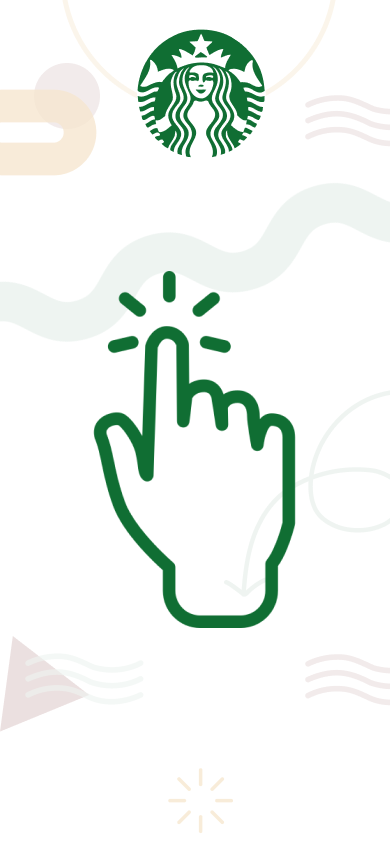
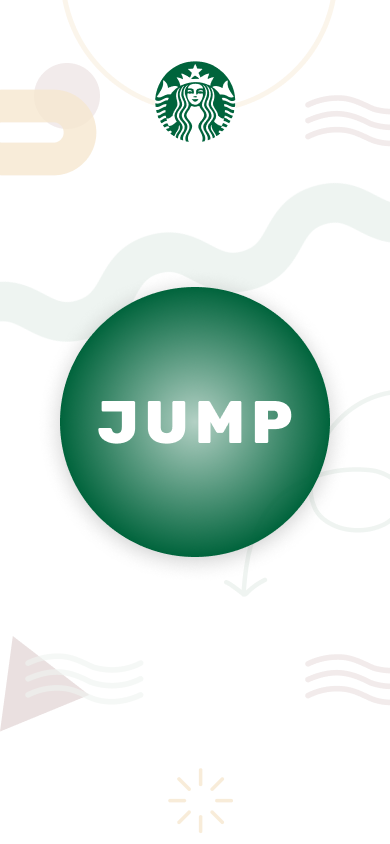
ended emit button to jup

Changed region(s): [[0.1538, 0.3081, 0.8615, 0.7701], [0.3385, 0.0308, 0.6769, 0.1848]]

diff --git a/public-display/sketch.js b/public-display/sketch.js
@@ -105,7 +105,6 @@ function start() {
 function HandleKeydown(ev) {
     if(ev.keyCode == 32){
         jump();
-        console.log(HandleKeydown)
     }
 }
 
@@ -243,13 +242,16 @@ function  GameOver() {
 You may want to use a Switch structure to listen for up, down, right and left cases.
 _____________________________________________ */
 
-socket.on('display-saludo',(message)=>{
-    console.log(message)
+
+socket.on('display-salto',(message)=>{
+    if(!jumping && message) jump();
 });
 
-socket.on('display-salto', (salta)=> {
-    console.log(salta)
-})
+socket.on('display-salto',(message)=>{
+    if(!jumping && message) jump();
+});
+
+
 
 /*___________________________________________
 

diff --git a/public-controller/sketch.js b/public-controller/sketch.js
@@ -34,13 +34,19 @@ function mostrarPantalla(numPantalla) {
 
 1) Create a function that includes the socket method to emit the directions
 _____________________________________________ */
-let message = "aaaaa"
-socket.emit("saludo",message);
 
-let salta = jump();
-var button = document.getElementById('miBoton');
-button.addEventListener('click', function(event) {
+let salta = false;
+var button = document.querySelector('.miBoton');
+console.log(button);
+button.addEventListener('mousedown', ()=> {
+  salta = false;
   socket.emit('eventoDeClick', salta);
 });
+
+button.addEventListener('mouseup', ()=> {
+  salta = true;
+  socket.emit('eventoDeClick', salta);
+});
+
 
 

diff --git a/public-controller/index.html b/public-controller/index.html
@@ -13,7 +13,7 @@
 </head>
 
 <body>
-    <button class="miBoton">Click para saltar</button>
+    
     <div class="container">
 
         <div id="pantalla1" class="pantalla activa">
@@ -21,9 +21,12 @@
             <button class="btn1" id="boton-pantalla2">PLAY</button>
         </div>
         
+
+        
         <div id="pantalla2" class="pantalla">
             <img src="./images/play.png" alt="">
             <button class="button2" id="boton-pantalla3">Ir a Pantalla 3</button>
+            <button class="miBoton">JUMP</button>
         </div>
         
         <div id="pantalla3" class="pantalla">

diff --git a/index.js b/index.js
@@ -52,9 +52,11 @@ ioServer.on('connection',(socket) =>{
         socket.broadcast.emit('display-saludo',message);
     });
 });
+
 ioServer.on('connection', function(socket) {
     socket.on('eventoDeClick', function(salta) {
-      console.log("si salta");
+      console.log("-------------Recibido---------");
+      console.log(salta, typeof salta);
       socket.broadcast.emit('display-salto', salta);
     });
   });

diff --git a/public-display/index.html b/public-display/index.html
@@ -22,6 +22,7 @@
         <button id="boton-pantalla3">Ir a Pantalla 3</button>
       </div>
       
+
       <div id="pantalla3" class="pantalla">
         <div class="container">
             <div class="floor"></div>
@@ -32,6 +33,7 @@
 
             <div class="game-over">GAME OVER</div>
         </div>
+        
     
         
         <button id="boton-pantalla4">Ir a Pantalla 4</button>

diff --git a/public-controller/style.css b/public-controller/style.css
@@ -22,8 +22,22 @@ body {
 
 #pantalla1{
     position: relative;
+}
+
+#pantalla2{
+    position: relative;
     
 }
+
+.miBoton{
+    position: absolute;
+    width: 225px;
+    height: 225px;
+    border-radius: 50%;
+    top: 215px;
+    right: 140px;
+}
+
 
 img {
     width: 300px;
